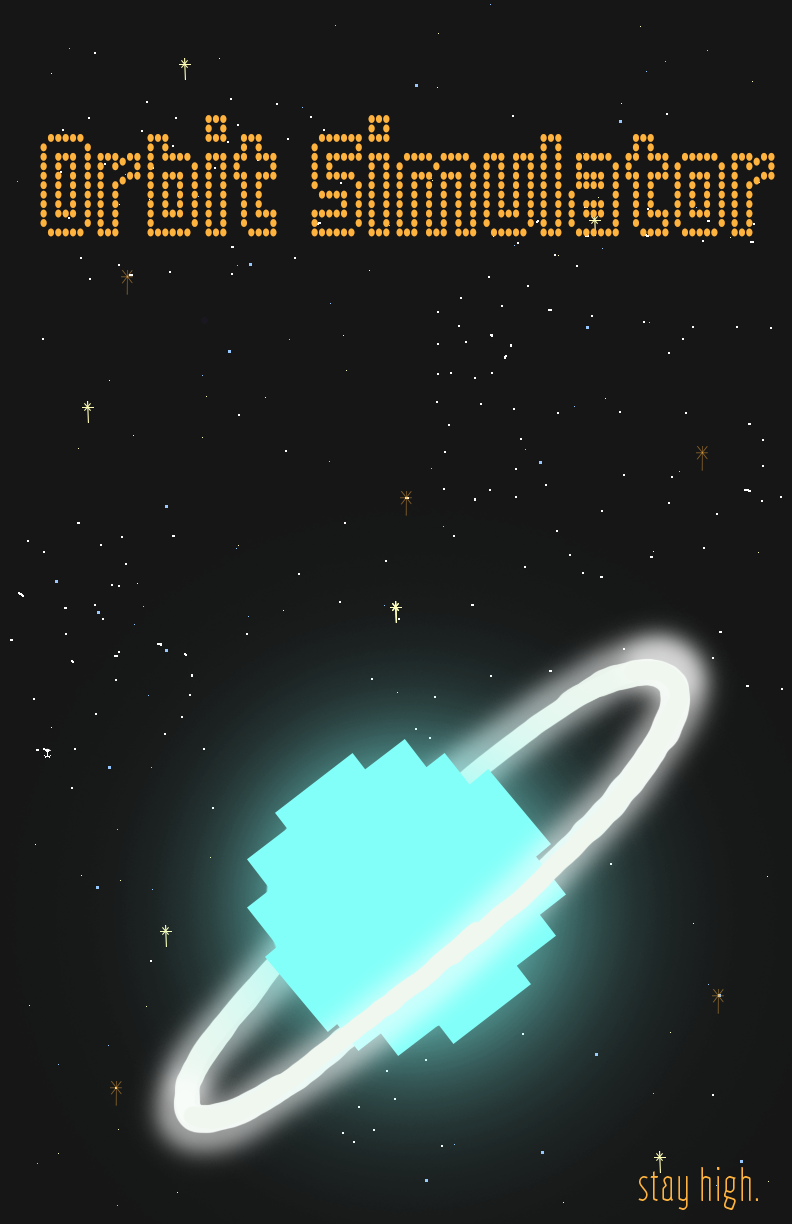
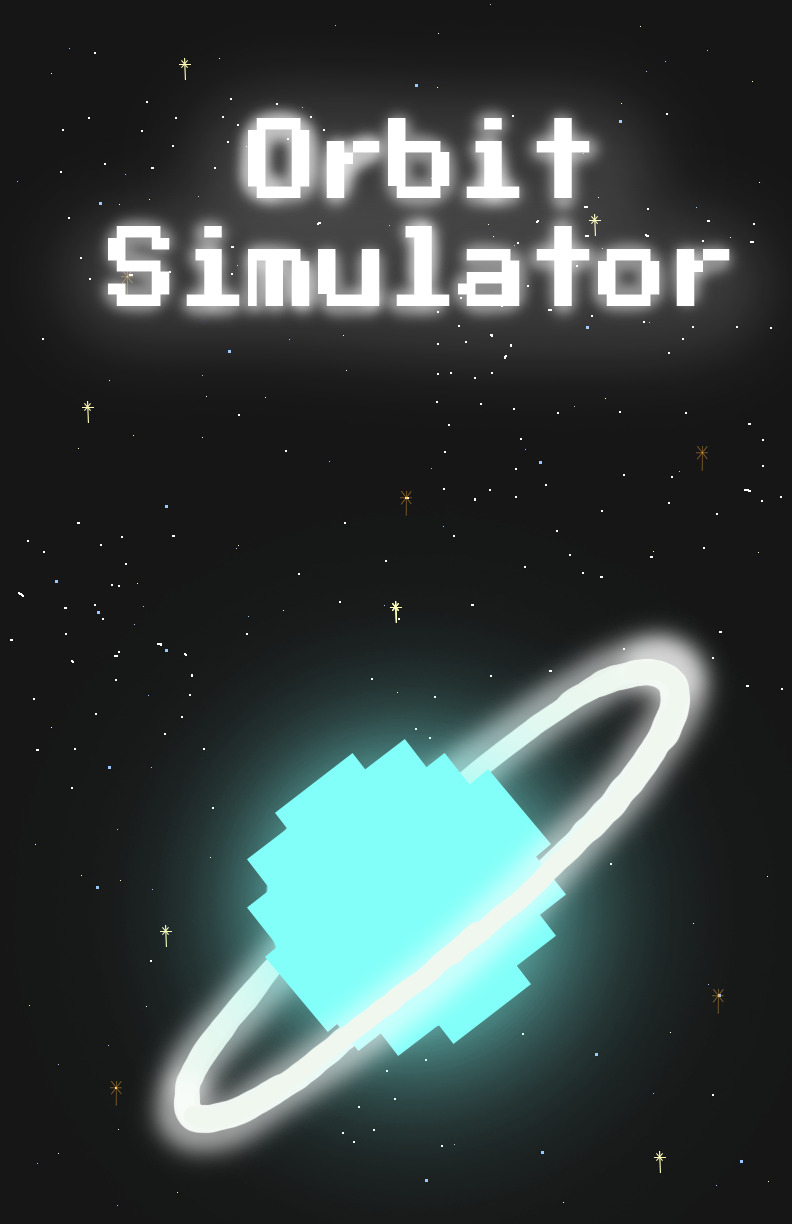
Update public image

Changed region(s): [[0.0303, 0.0621, 1.0, 0.3105], [0.8182, 0.9624, 0.9394, 0.9935]]

diff --git a/index.html b/index.html
@@ -53,12 +53,9 @@
 						<li>
 							<span class="Nav-Caret">Games</span>
 							<ul class="Nested">
+								<li><a href="https://sketburd.itch.io/orbit-simulator">Orbit Simulator</a></li>
 								<li><a href="https://store.steampowered.com/app/1543760/Steep_Slopes/">Steep Slopes</a></li>
-								<li><a href="https://maria-antoinette.itch.io/spooky-corporate">Spooky Corporate</a></li>
-								<li><a href="https://skeeeth.itch.io/growing-dread">Growing Dread</a></li>
-								<li><a href="https://maria-antoinette.itch.io/orbit-simulator">Orbit Simulator</a></li>
-								<li><a href="https://store.steampowered.com/app/1583410/Hamster/">Hamster</a></li>
-								<li><a href="https://github.com/ToniaSanzo/-MethHead-/tree/master">[MethHead]</a></li>
+								<li><a href="https://sketburd.itch.io/spooky-corporate">Spooky Corporate</a></li>
 							</ul>
 						</li>
 					</ul>
@@ -84,12 +81,12 @@
 
 
 					<div class="Title">
-						SKETburd <a href="https://github.com/ar13l-x07"><img width="64px" height="64px" src="./assets/github-mark.png" alt="github-icon"></a>
+						SKETburd (tsanzo)<a href="https://github.com/ar13l-x07"><img width="64px" height="64px" src="./assets/github-mark.png" alt="github-icon"></a>
 					</div>
 
 
 					<div class="Description">
-						Waitress | Skate Rat
+						Sandwich Artist
 					</div>
 
 
@@ -145,12 +142,9 @@
 						<h2>Games</h2>
 
 						<div class="scroll-container">
+							<a class="Header-Link" href="https://sketburd.itch.io/orbit-simulator"><img src="./assets/Orbit-Simulator-thumbnail.png" alt="Orbit Simulator" width="300px"></a>
 							<a class="Header-Link" href="https://store.steampowered.com/app/1543760/Steep_Slopes/"><img src="./assets/Steep-Slopes-thumbnail.png" alt="Steep Slopes" width="300px"></a>
-							<a class="Header-Link" href="https://maria-antoinette.itch.io/spooky-corporate"><img src="./assets/Corporate-Nightmare-thumbnail.png" alt="Corporate Nightmare" width="300px"></a>
-							<a class="Header-Link" href="https://skeeeth.itch.io/growing-dread"><img src="./assets/Growing-Dread-thumbnail.png" alt="Growing Dread" width="300px"></a>
-							<a class="Header-Link" href="https://maria-antoinette.itch.io/orbit-simulator"><img src="./assets/Orbit-Simulator-thumbnail.png" alt="Orbit Simulator" width="300px"></a>
-							<a class="Header-Link" href="https://store.steampowered.com/app/1583410/Hamster/"><img src="./assets/Hamster-thumbnail.png" alt="Hamster" width="300px"></a>
-							<a class="Header-Link" href="https://maria-antoinette.itch.io/methhead"><img src="./assets/[MethHead]-thumbnail.png" alt="[MethHead]" width="300px"></a>
+							<a class="Header-Link" href="https://sketburd.itch.io/spooky-corporate"><img src="./assets/Corporate-Nightmare-thumbnail.png" alt="Corporate Nightmare" width="300px"></a>
 						</div>
 
 					</div>

diff --git a/moo/format.html b/moo/format.html
@@ -58,12 +58,9 @@
 						<li>
 							<span class="Nav-Caret">Games</span>
 							<ul class="Nested">
+								<li><a href="https://sketburd.itch.io/orbit-simulator">Orbit Simulator</a></li>
 								<li><a href="https://store.steampowered.com/app/1543760/Steep_Slopes/">Steep Slopes</a></li>
-								<li><a href="https://maria-antoinette.itch.io/spooky-corporate">Spooky Corporate</a></li>
-								<li><a href="https://skeeeth.itch.io/growing-dread">Growing Dread</a></li>
-								<li><a href="https://maria-antoinette.itch.io/orbit-simulator">Orbit Simulator</a></li>
-								<li><a href="https://store.steampowered.com/app/1583410/Hamster/">Hamster</a></li>
-								<li><a href="https://github.com/ToniaSanzo/-MethHead-/tree/master">[MethHead]</a></li>
+								<li><a href="https://sketburd.itch.io/spooky-corporate">Spooky Corporate</a></li>
 							</ul>
 						</li>
 					</ul>

diff --git a/moo/index.html b/moo/index.html
@@ -49,12 +49,9 @@
 						<li>
 							<span class="Nav-Caret">Games</span>
 							<ul class="Nested">
+								<li><a href="https://sketburd.itch.io/orbit-simulator">Orbit Simulator</a></li>
 								<li><a href="https://store.steampowered.com/app/1543760/Steep_Slopes/">Steep Slopes</a></li>
-								<li><a href="https://maria-antoinette.itch.io/spooky-corporate">Spooky Corporate</a></li>
-								<li><a href="https://skeeeth.itch.io/growing-dread">Growing Dread</a></li>
-								<li><a href="https://maria-antoinette.itch.io/orbit-simulator">Orbit Simulator</a></li>
-								<li><a href="https://store.steampowered.com/app/1583410/Hamster/">Hamster</a></li>
-								<li><a href="https://github.com/ToniaSanzo/-MethHead-/tree/master">[MethHead]</a></li>
+								<li><a href="https://sketburd.itch.io/spooky-corporate">Spooky Corporate</a></li>
 							</ul>
 						</li>
 					</ul>
